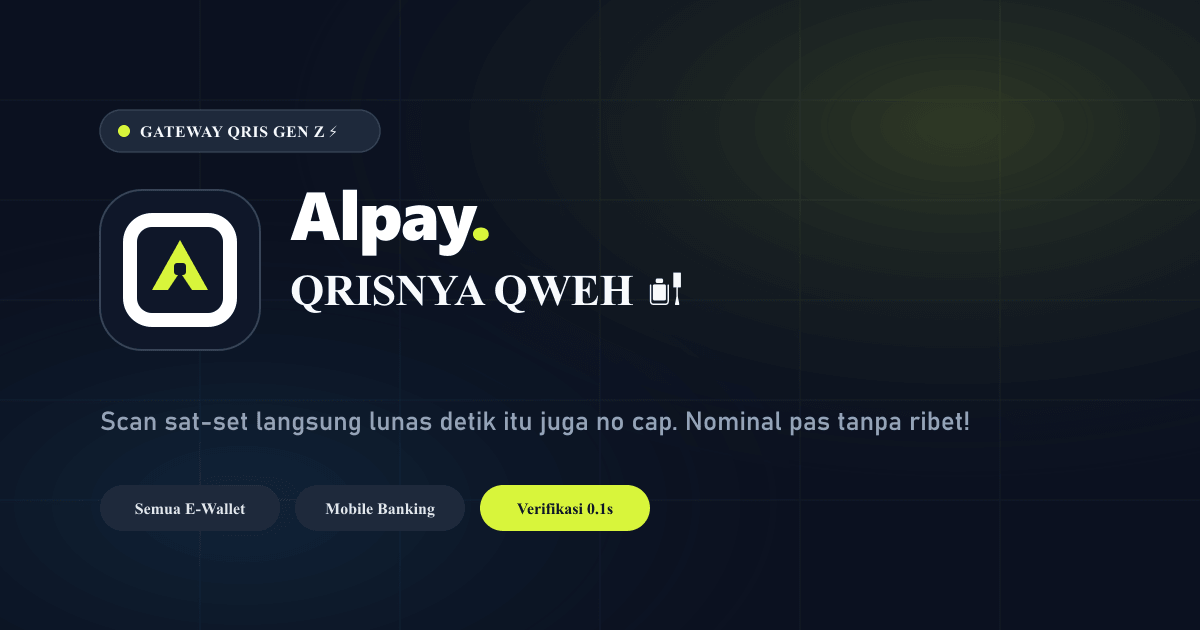
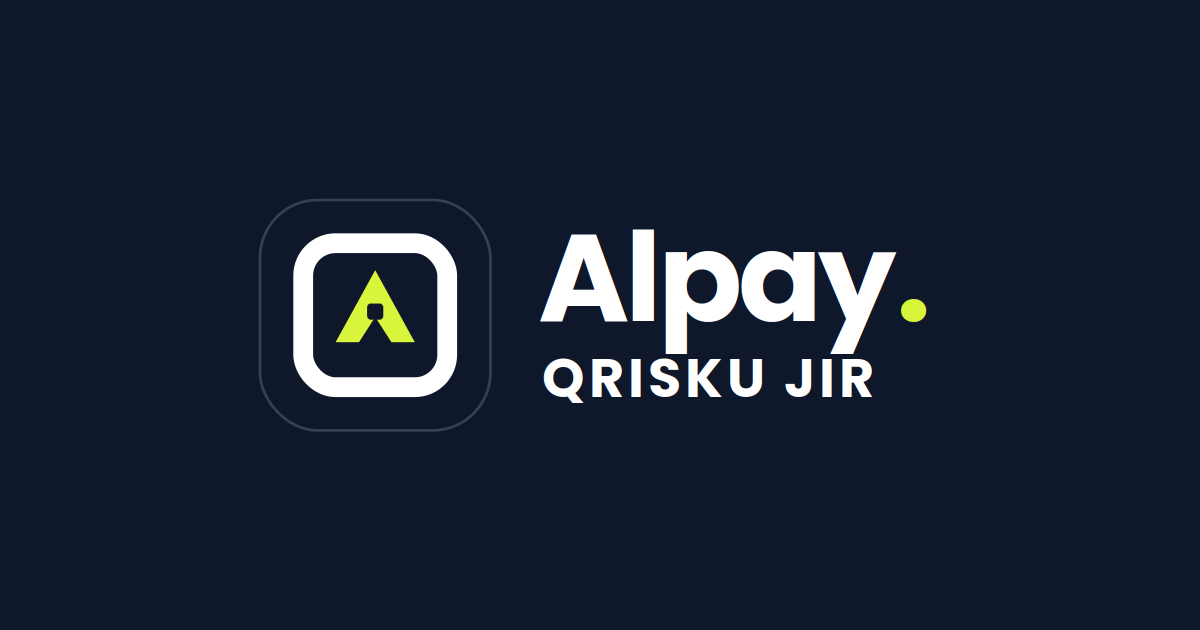
feat: apply custom og-alpay.png and update metadata to QRISKU JIER

diff --git a/app/layout.js b/app/layout.js
@@ -2,24 +2,24 @@ import './globals.css';
 
 export const metadata = {
   metadataBase: new URL('https://pay.ghifari.biz.id'),
-  title: 'Alpay — QRISNYA QWEH',
-  description: 'Scan langsung sat-set anti ribet! Tinggal tap, nominal pas sampai rupiah, langsung lunas detik itu juga no cap 💅⚡',
+  title: 'Alpay — QRISKU JIER',
+  description: 'Scan bentar, bayar kelar. Saldo pamit, transaksi aman bos 💸',
   icons: {
     icon: '/alpay.svg',
     shortcut: '/alpay.svg',
     apple: '/alpay.svg',
   },
   openGraph: {
-    title: 'Alpay — QRISNYA QWEH',
-    description: 'Scan langsung sat-set anti ribet! Tinggal tap, nominal pas sampai rupiah, langsung lunas detik itu juga no cap 💅⚡',
+    title: 'Alpay — QRISKU JIER',
+    description: 'Scan bentar, bayar kelar. Saldo pamit, transaksi aman bos 💸',
     url: 'https://pay.ghifari.biz.id',
     siteName: 'Alpay',
     images: [
       {
-        url: '/og.png',
+        url: '/og-alpay.png',
         width: 1200,
         height: 630,
-        alt: 'Alpay — QRISNYA QWEH',
+        alt: 'Alpay — QRISKU JIER',
       },
     ],
     locale: 'id_ID',
@@ -27,9 +27,9 @@ export const metadata = {
   },
   twitter: {
     card: 'summary_large_image',
-    title: 'Alpay — QRISNYA QWEH',
-    description: 'Scan langsung sat-set anti ribet! Tinggal tap, langsung lunas detik itu juga no cap 💅⚡',
-    images: ['/og.png'],
+    title: 'Alpay — QRISKU JIER',
+    description: 'Scan bentar, bayar kelar. Saldo pamit, transaksi aman bos 💸',
+    images: ['/og-alpay.png'],
   },
 };
 
